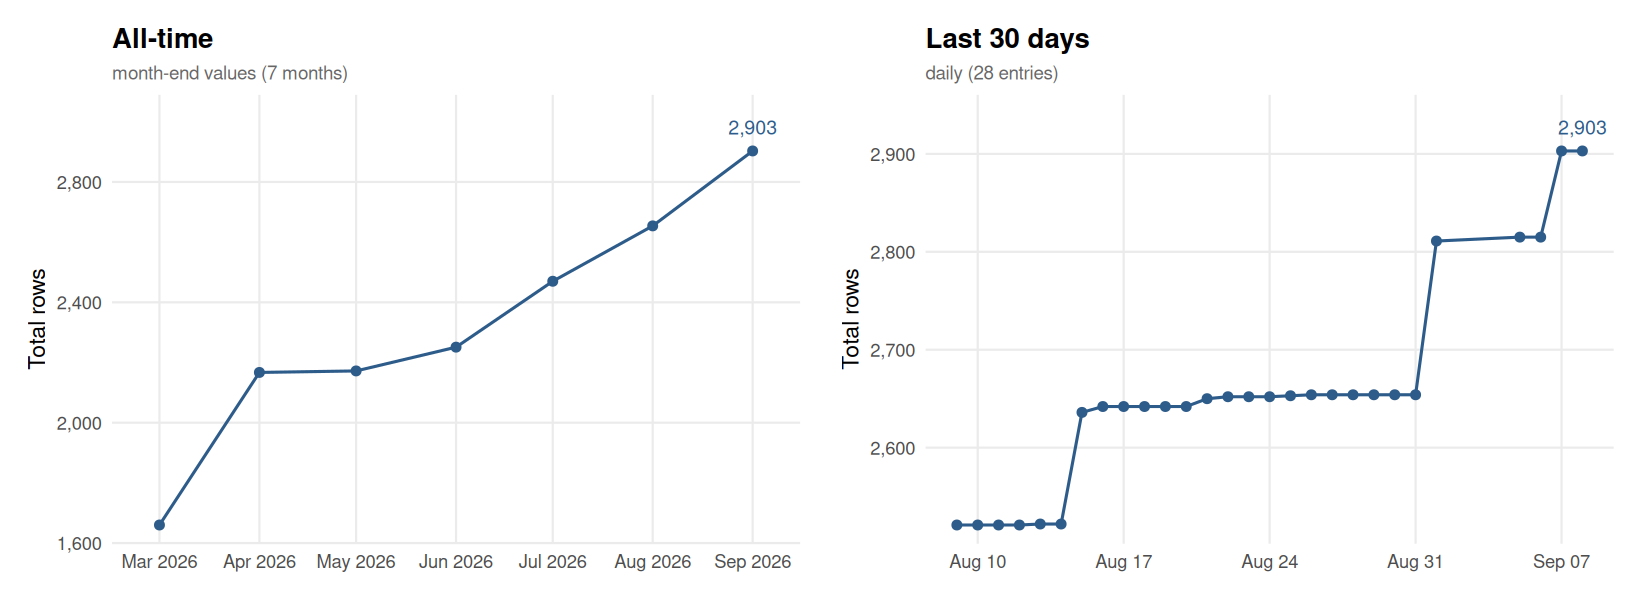
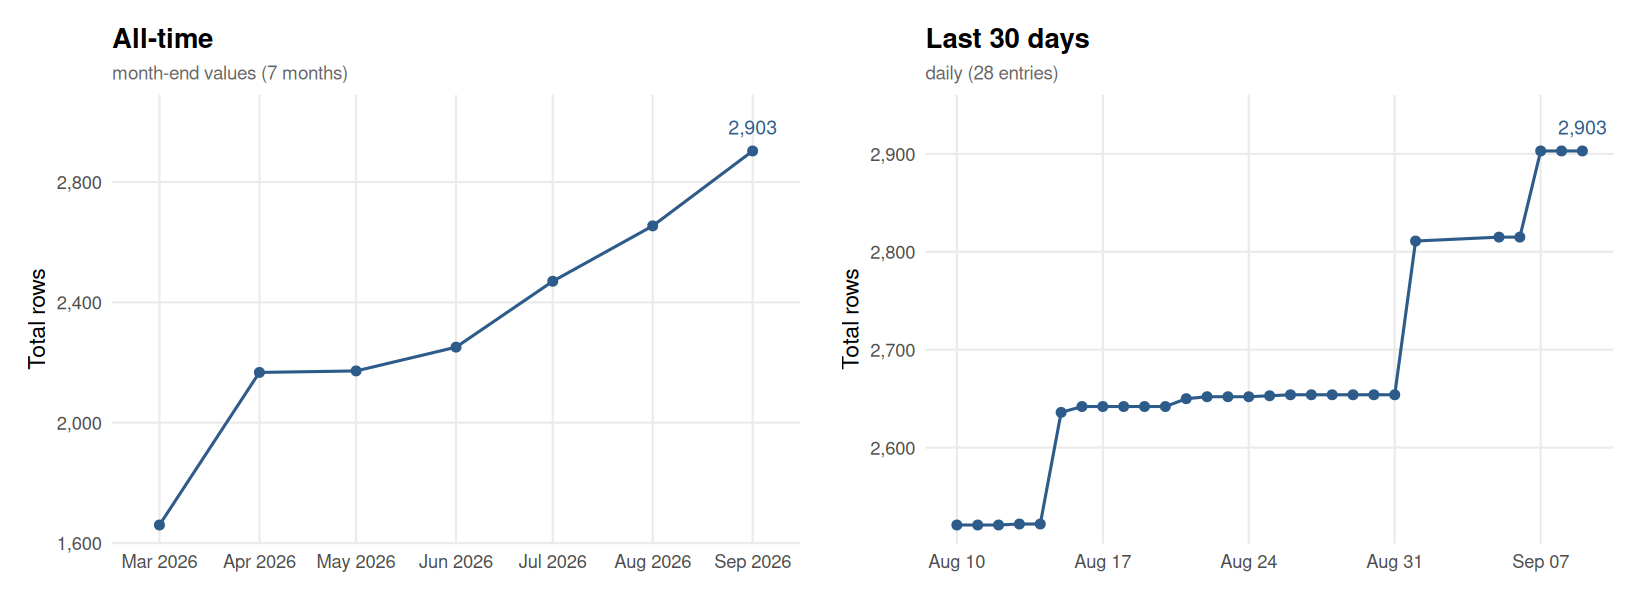
Update flora.csv [automated]

diff --git a/README.md b/README.md
@@ -438,14 +438,15 @@ For API issues:
 This chart is automatically updated after each pipeline run, showing the size of `output/flora.csv` over time.
 
 <!-- FLORA_UPDATE_LOG_START -->
-> **Latest (2026-09-08):** Total = 2,903 | Replications = 2,556 | Reproductions = 347
+> **Latest (2026-09-09):** Total = 2,903 | Replications = 2,556 | Reproductions = 347
 
 ![FLoRA dataset size over time](output/flora_history.png)
 
-<details><summary>Full history (166 entries)</summary>
+<details><summary>Full history (167 entries)</summary>
 
 | Date | Total | Replications | Reproductions |
 |------|------:|-------------:|--------------:|
+| 2026-09-09 | 2903 | 2556 | 347 |
 | 2026-09-08 | 2903 | 2556 | 347 |
 | 2026-09-07 | 2903 | 2556 | 347 |
 | 2026-09-06 | 2815 | 2526 | 289 |
